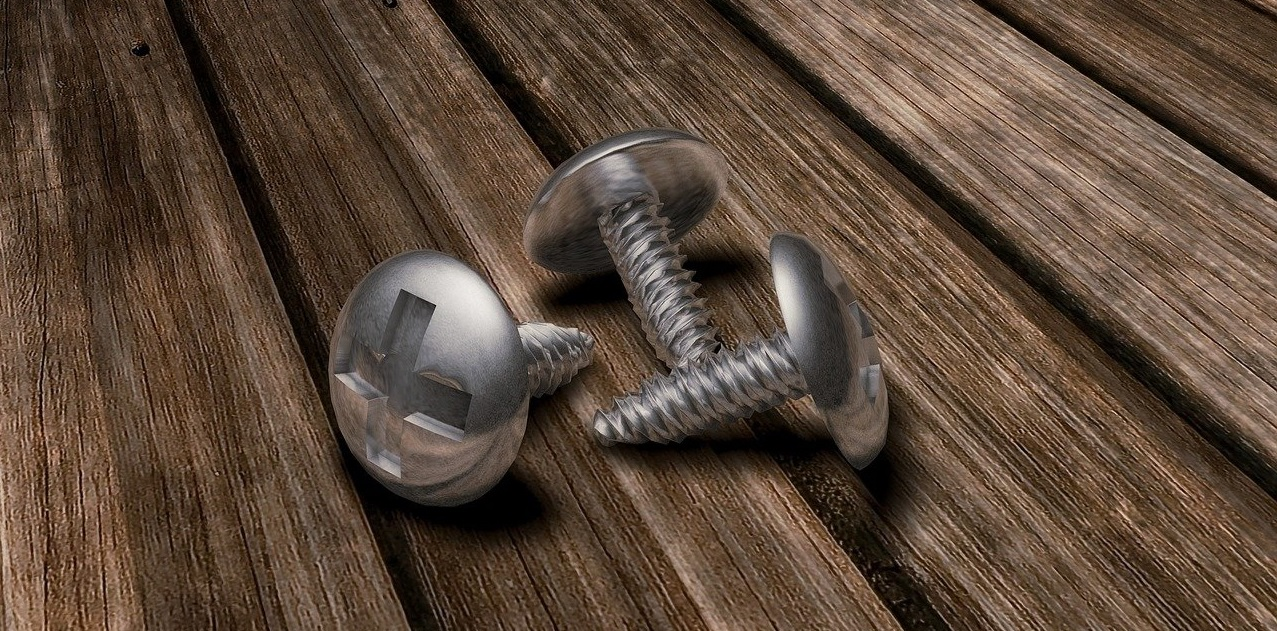
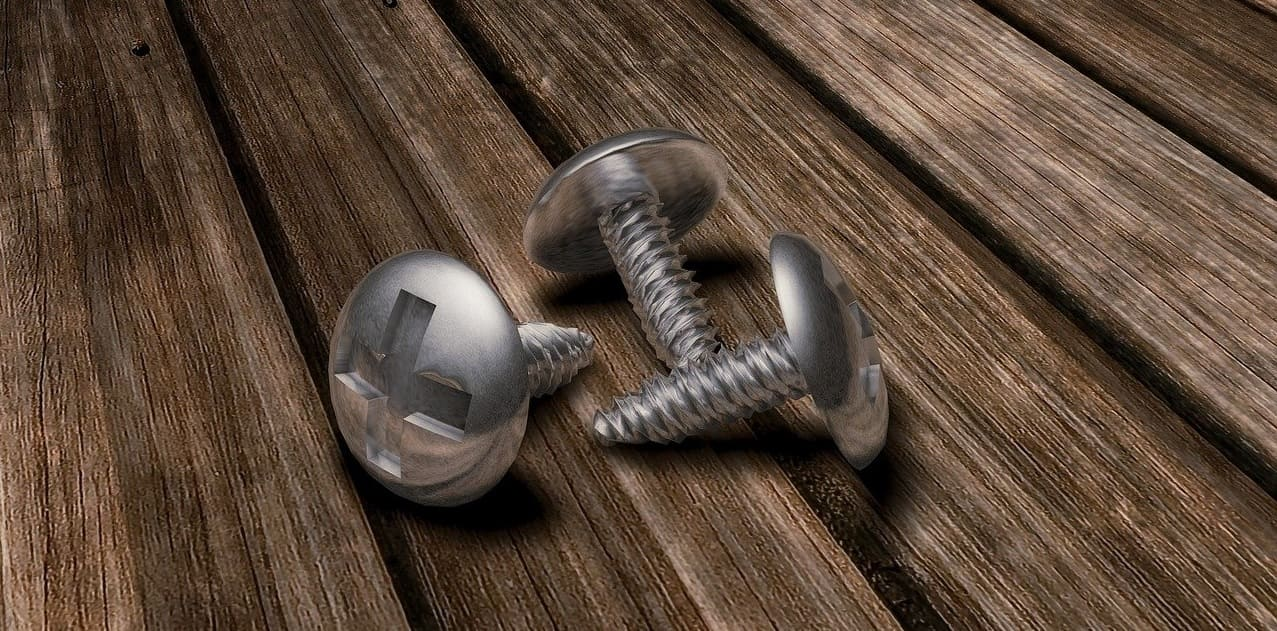
aplicando SEO, palabras claves, cambio de tamaño de imágenes

diff --git a/pages/contacto.html b/pages/contacto.html
@@ -4,7 +4,8 @@
 <head>
     <meta charset="UTF-8" />
     <meta name="viewport" content="width=device-width, initial-scale=1.0" />
-
+    <meta name="description" content="Contactanos">
+    <meta name="keywords" content="Contactanos, estamos para responder tus preguntas, brindarte asesoramiento experto y ayudarte a encontrar las herramientas y suministros adecuados.">
     <!-- Agrega icono a página-->
     <link rel="shortcut icon" href="../img/icon.ico" type="image/x-icon">
     <!-- Inicia BS -->
@@ -18,7 +19,7 @@
     <!-- Link a archivo CSS local-->
     <link rel="stylesheet" href="../estilos.css" />
     <!-- Titulo de la página ó pestaña-->
-    <title>Ferretería Norte Gas</title>
+    <title>Contacto</title>
 </head>
 
 <body>
@@ -52,7 +53,6 @@
         </div>
     </nav>
     <!-- Finaliza navbar-->
-    <!-- Inicia jumbotron -->
     <main id="contacto" class="p-5">
         <h1><strong>Contacto</strong></h1><br>
         <section>
@@ -86,7 +86,6 @@
             </div>
         </section>
     </main>
-    <!-- Finaliza jumbotron -->
     <!-- Inicia footer -->
     <footer class="footer">
         <p class="footer2">©Copyright 2023</p>

diff --git a/pages/quienes-somos.html b/pages/quienes-somos.html
@@ -3,6 +3,8 @@
 <head>
     <meta charset="UTF-8" />
     <meta name="viewport" content="width=device-width, initial-scale=1.0" />
+    <meta name="description" content="Acerca de nosotros, quiénes somos">
+    <meta name="keywords" content="En Norte Gas, nuestra pasión es brindar soluciones confiables para tus proyectos. Con años de experiencia en el sector de ferretería, nuestro equipo está comprometido en ofrecerte productos de calidad y asesoramiento experto. Descubre quiénes somos y cómo podemos ayudarte a tener éxito en tus proyectos de construcción y reparación.">
     <!-- Agrega icono a página-->
     <link rel="shortcut icon" href="../img/icon.ico" type="image/x-icon">
     <!-- Inicia BS -->
@@ -16,7 +18,7 @@
     <!-- Link a archivo CSS local-->
     <link rel="stylesheet" href="../estilos.css" />
     <!-- Titulo de la página ó pestaña-->
-    <title>Ferretería Norte Gas</title>
+    <title>Quiénes somos</title>
 </head>
 <body>
     <!-- Inicia navbar-->

diff --git a/index.html b/index.html
@@ -3,6 +3,8 @@
 <head>
     <meta charset="UTF-8" />
     <meta name="viewport" content="width=device-width, initial-scale=1.0" />
+    <meta name="description" content="Descubrí todo lo que necesitás para tú construcción y reparación en nuestra ferretería. Amplia selección de herramientas, materiales y suministros de alta calidad.">
+    <meta name="keywords" content="Construcción, Electricidad, Pintura, Materiales">
     <!-- Agrega icono a página-->
     <link rel="shortcut icon" href="img/icon.ico" type="image/x-icon">
     <!-- Inicia BS -->
@@ -16,7 +18,7 @@
     <!-- Link a archivo CSS local-->
     <link rel="stylesheet" href="estilos.css" />
     <!-- Titulo de la página ó pestaña-->
-    <title>Ferretería Norte Gas</title>
+    <title>Ferretería Norte Gas en Malvinas Argentinas</title>
 </head>
 <body>
     <!-- Inicia navbar-->

diff --git a/pages/productos.html b/pages/productos.html
@@ -4,7 +4,8 @@
 <head>
     <meta charset="UTF-8" />
     <meta name="viewport" content="width=device-width, initial-scale=1.0" />
-
+    <meta name="description" content="Productos y servicios">
+    <meta name="keywords" content="Descubrí la más amplia gama de herramientas, materiales y suministros para proyectos de construcción y reparación en nuestra ferretería.">
     <!-- Agrega icono a página-->
     <link rel="shortcut icon" href="../img/icon.ico" type="image/x-icon">
     <!-- Inicia BS -->
@@ -18,7 +19,7 @@
     <!-- Link a archivo CSS local-->
     <link rel="stylesheet" href="../estilos.css" />
     <!-- Titulo de la página ó pestaña-->
-    <title>Ferretería Norte Gas</title>
+    <title>Nuestros productos</title>
 </head>
 
 <body>

diff --git a/pages/ubicacion.html b/pages/ubicacion.html
@@ -3,6 +3,8 @@
 <head>
     <meta charset="UTF-8" />
     <meta name="viewport" content="width=device-width, initial-scale=1.0" />
+    <meta name="description" content="LUGAR">
+    <meta name="keywords" content="DÓNDE ESTAMOS?, UBICACIÓN, DIRECCIÓN">
     <!-- Agrega icono a página-->
     <link rel="shortcut icon" href="../img/icon.ico" type="image/x-icon">
     <!-- Inicia BS -->
@@ -16,7 +18,7 @@
     <!-- Link a archivo CSS local-->
     <link rel="stylesheet" href="../estilos.css" />
     <!-- Titulo de la página ó pestaña-->
-    <title>Ferretería Norte Gas</title>
+    <title>Ubicación</title>
 </head>
 <body>
     <!-- Inicia navbar-->
